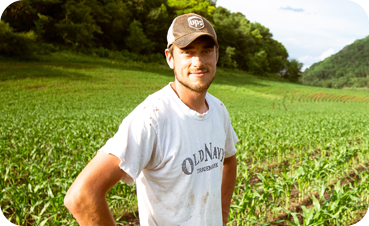
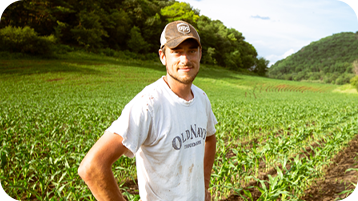
240904_yuuzou.yamadaのブランチ013

diff --git a/index.html b/index.html
@@ -151,22 +151,22 @@
                         <!-- /.service__item -->
                         <div class="service__item service__item--harvest">
                             <img src="assets/image/top/service/service_2.png" alt="" class="service__img service__img--harvest">
-                            <div class="service__caption service__caption--harvest">プログレッシブハーベストボット</div>
+                            <div class="service__caption service__caption--harvest"><span class="service__caption-line">プログレッシブ</span><span class="service__caption-line">ハーベストボット</span></div>
                         </div>
                         <!-- /.service__item -->
                         <div class="service__item service__item--farm">
                             <img src="assets/image/top/service/service_3.png" alt="" class="service__img">
-                            <div class="service__caption">フューチャーファームマスター</div>
+                            <div class="service__caption service__caption--farm">フューチャーファームマスター</div>
                         </div>
                         <!-- /.service__item -->
                         <div class="service__item service__item--grow">
                             <img src="assets/image/top/service/service_4.png" alt="" class="service__img">
-                            <div class="service__caption">ミラクルグローアシスト</div>
+                            <div class="service__caption service__caption--grow">ミラクルグローアシスト</div>
                         </div>
                         <!-- /.service__item -->
                         <div class="service__item service__item--planter">
                             <img src="assets/image/top/service/service_5.png" alt="" class="service__img">
-                            <div class="service__caption">インテリジェントプランター</div>
+                            <div class="service__caption service__caption--planter">インテリジェントプランター</div>
                         </div>
                         <!-- /.service__item -->
                     </div>

diff --git a/assets/style/main.css b/assets/style/main.css
@@ -429,11 +429,16 @@ html {
 }
 
 .service__item--harvest {
-    padding-right: 73px;
+    padding-right: 70px;
 }
 
 .service__item--grow {
-    gap: 5.128205vw;
+    gap: 4.61538vw;
+}
+
+.service__item--planter {
+    padding-right: 20px;
+    gap: 4.35897vw;
 }
 
 @media (min-width: 1100px) {
@@ -480,6 +485,22 @@ html {
     line-height: 1.77778;
 }
 
+.service__caption--drone {
+    padding-bottom: 2px;
+}
+
+.service__caption--harvest {
+    padding-bottom: 1px;
+}
+
+.service__caption--farm {
+    padding-bottom: 5px;
+}
+
+.service__caption--planter {
+    padding-bottom: 2px;
+}
+
 @media (min-width: 1100px) {
     .service__caption {
         font-size: 20px;
@@ -491,11 +512,15 @@ html {
     }
 }
 
+.service__caption-line {
+    display: block;
+}
+
 /* お客様の事例紹介
 ------------------------------------------ */
 .case {
     background-color: #f3f9f6;
-    padding-top: 56px;
+    padding-top: 51px;
     padding-bottom: 56px;
 }
 
@@ -510,7 +535,7 @@ html {
     display: flex;
     flex-direction: column;
     gap: 32px;
-    margin-top: 24px;
+    margin-top: 21px;
 }
 
 @media (min-width: 768px) {
@@ -526,13 +551,15 @@ html {
 
 .case__img {
     width: 100%;
+    height: 201px;
+    object-fit: cover;
 }
 
 .case__result {
     font-size: 18px;
     font-weight: bold;
     color: #09947b;
-    margin-top: 16px;
+    margin-top: 10px;
 }
 
 @media (min-width: 768px) {
